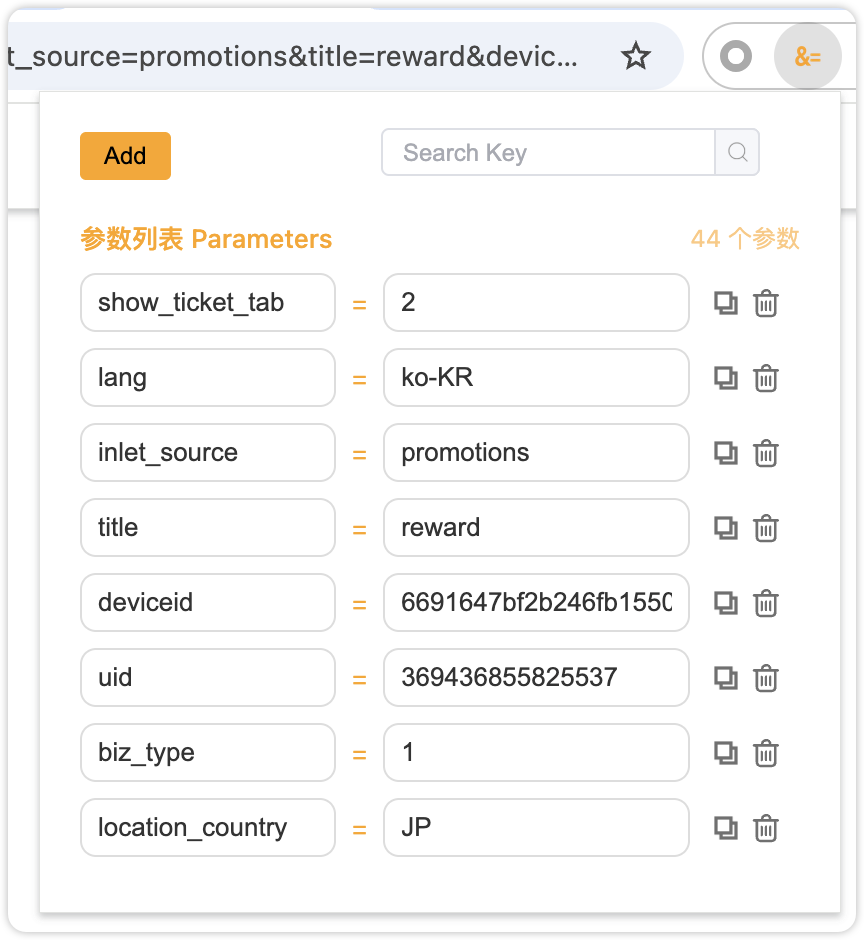
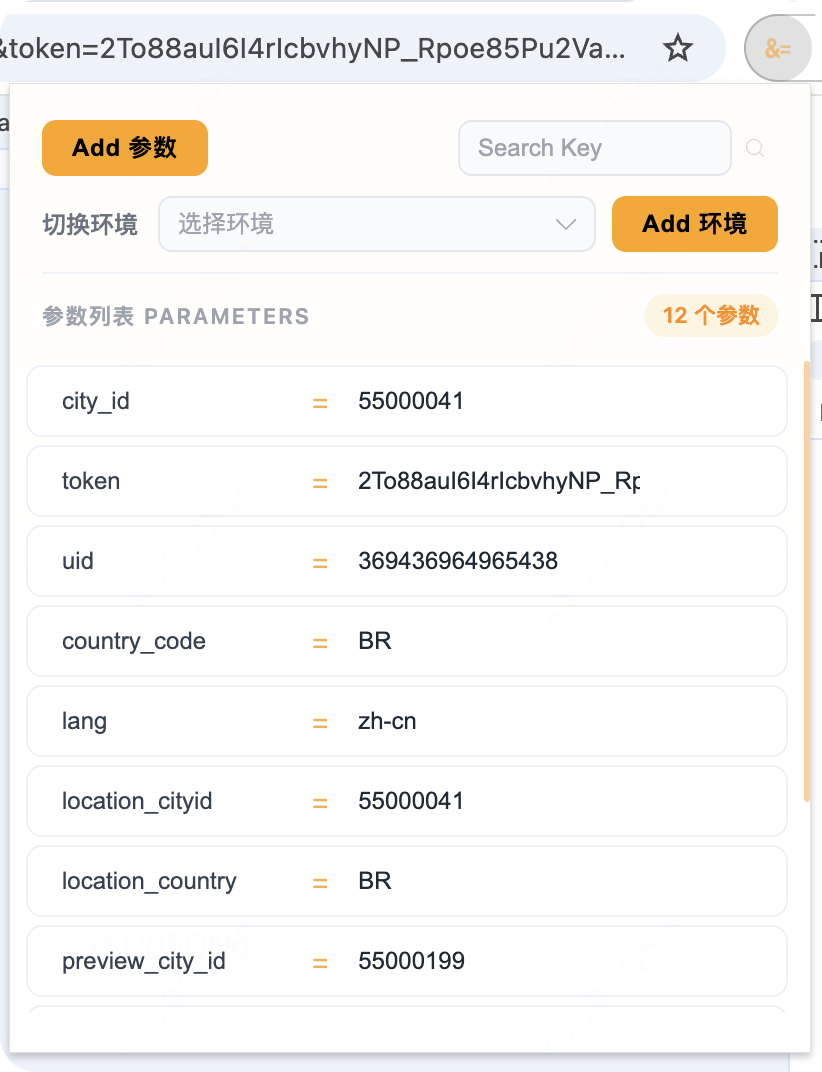
docs: 更新readme

diff --git a/README.md b/README.md
@@ -1,18 +1,26 @@
 # URL Query Editor
 
-面向 Chrome 的浏览器扩展，将 URL 查询参数以结构化的 key-value 形式呈现，支持可视化编辑、快速搜索和批量操作，旨在提升开发者的调试与测试效率。
+面向 Chrome 的浏览器扩展，将 URL 查询参数以结构化的 key-value 形式呈现，支持可视化编辑、环境切换、快速搜索和批量操作，旨在提升开发者的调试与测试效率。
 
-<img src="./src/assets/imgs/examples.png" width="300" />
+<img src="./src/assets/imgs/examples.png" width="300" alt="URL Query Editor 界面预览" />
 
 ## ✨ 功能特性
+
 扩展启动后自动获取当前标签页的 URL，解析其中的查询字符串（Query String），并以清晰的列表形式展示。每个参数以「key = value」的形式呈现，支持参数数量统计，便于快速了解当前页面的参数结构。
 
-- 📋 **自动解析 URL 参数**：打开扩展后自动获取当前页面的所有查询参数
-- ✏ **修改参数值**：直接在输入框中修改参数值并立即刷新页面导航
-- ✏ **新增参数值**：通过 Add 按钮打开弹窗，输入 key 和 value 即可添加新参数
-- ✏ **删除参数值**：提供删除按钮，点击后移除该参数并立即刷新页面导航
-- ⚡ **参数搜索**：包含大量参数时，可通过顶部搜索框按 key 进行检索
-- ⚡ **一键复制**：可将参数值快速复制到剪贴板
+| 功能            | 说明                                                          |
+| --------------- | ------------------------------------------------------------- |
+| 📋 **自动解析** | 打开扩展后自动获取当前页面的所有查询参数                      |
+| ✏ **修改参数** | 直接在输入框中修改参数值，点击「应用更改」立即刷新页面        |
+| ➕ **新增参数** | 通过 Add 按钮输入 key 和 value 即可添加新参数                 |
+| 🗑 **删除参数** | 点击删除按钮移除该参数并立即刷新页面                          |
+| 🔄 **切换环境** | 支持配置多套环境（如 dev/test/prod），一键替换当前 URL 的域名 |
+| 🔍 **参数搜索** | 大量参数时，通过搜索框按 key 快速定位                         |
+| 📋 **一键复制** | 可将参数值快速复制到剪贴板                                    |
+
+### 切换环境
+
+在「切换环境」区域可预设多套环境（环境名 + 域名），选择后会将当前页面的 URL 域名替换为所选环境的域名，路径和查询参数保持不变。例如：`https://prod.example.com/page?id=1` 切换为 `dev` 环境后变为 `https://dev.example.com/page?id=1`。
 
 ## 🔐 安全与兼容
 
@@ -20,13 +28,15 @@
 
 ## 🚀 安装到 Chrome 浏览器
 
-### 方法一：开发者模式加载（推荐）
+### 开发者模式加载（推荐）
 
 1. **打包项目**
+
    ```bash
    pnpm install
    pnpm run build
    ```
+
    打包后的文件会在 `dist` 目录中。
 
 2. **打开 Chrome 扩展管理页面**
@@ -82,4 +92,3 @@ pnpm run build
 1. 重新打包：`pnpm run build`
 2. 在 `chrome://extensions/` 页面找到你的扩展
 3. 点击扩展卡片上的 **刷新按钮** 🔄（不需要重新加载整个扩展）
-
